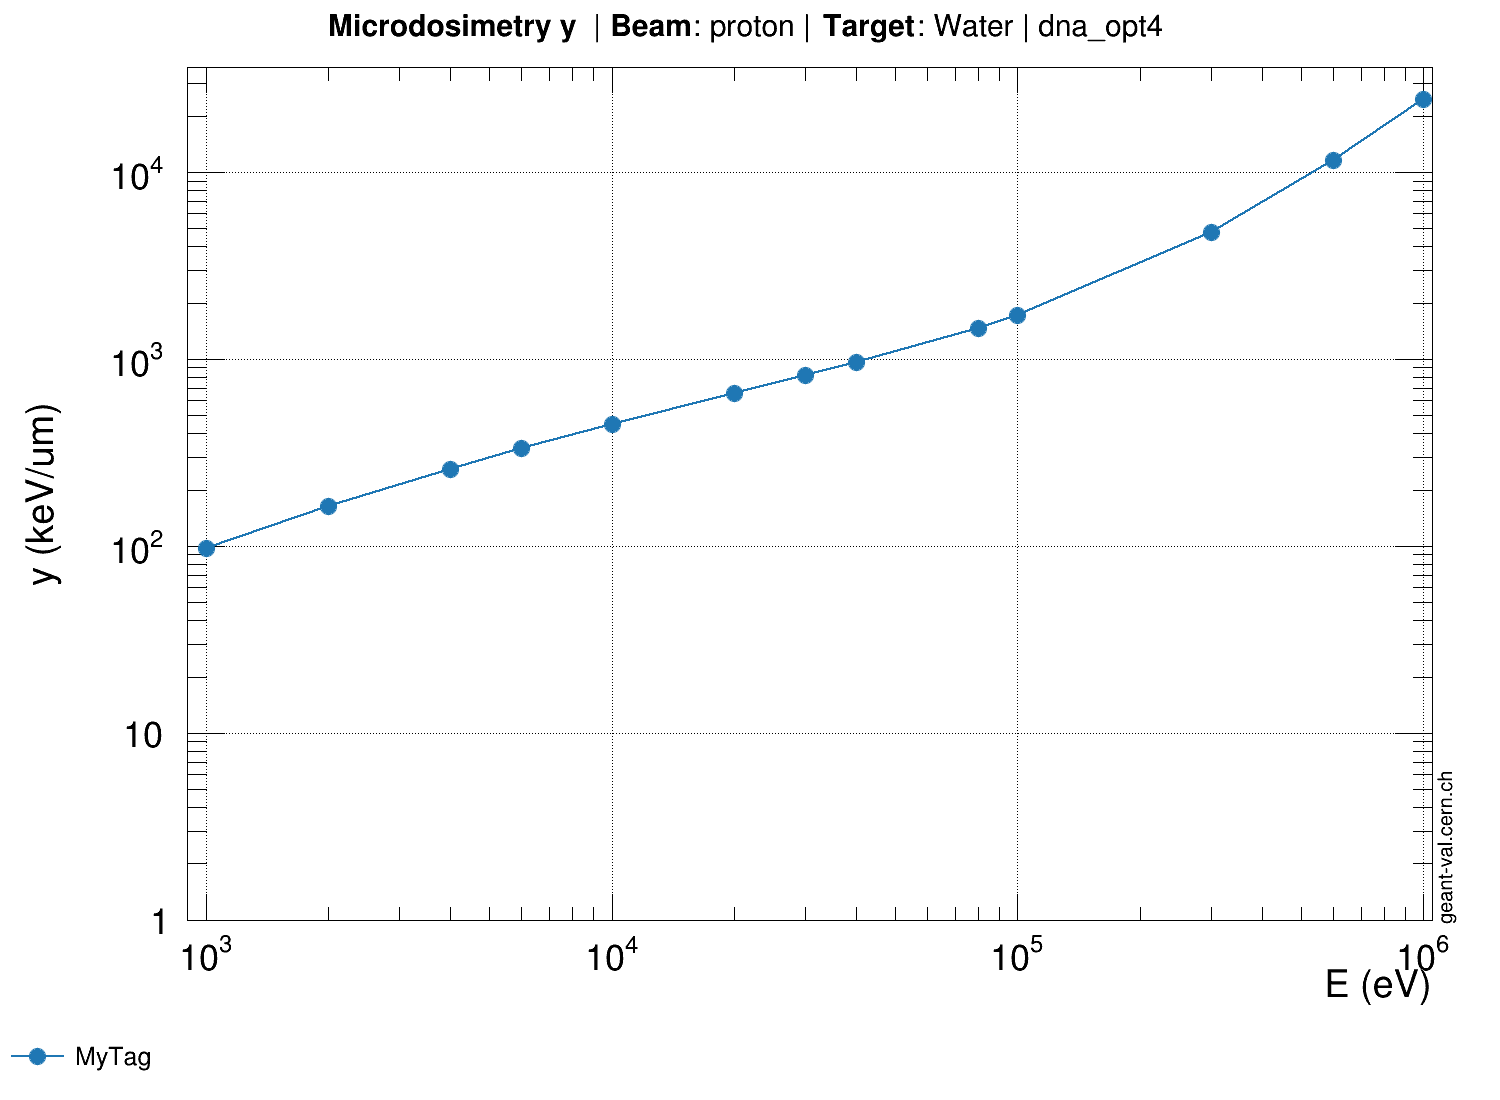
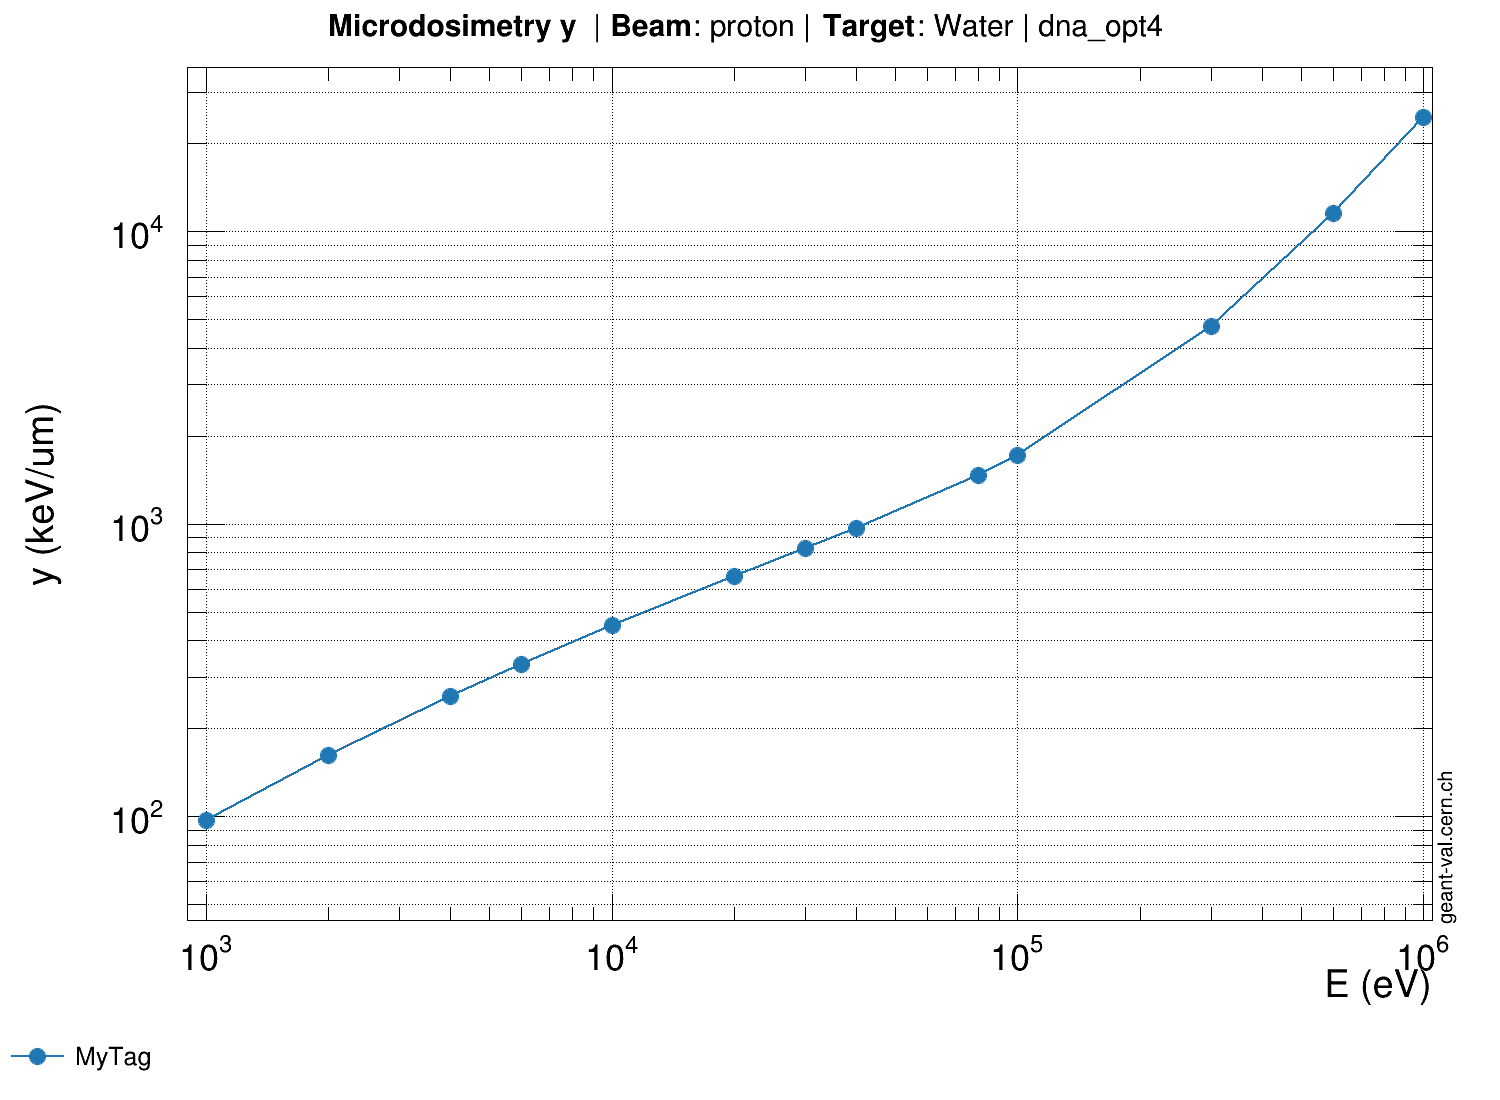
range : lun. mars 20 17:59:31 CET 2023

diff --git a/assets/OUTPUTJSON/geant4/MyTag/x86_64/range/proton.conf.c b/assets/OUTPUTJSON/geant4/MyTag/x86_64/range/proton.conf.c
@@ -66,3 +66,71 @@ double gvp_id-1_yerrors[13] = {
   0,
   0
 };
+// Tool:               GEANT4
+// Version:            MyTag
+// Model:              dna_opt4
+// Observable:         microdosimetry y
+// Target:             Water
+// Beam Particle:      proton
+// Secondary Particle: None
+
+double gvp_id-1_x[13] = {
+  1000,
+  2000,
+  4000,
+  6000,
+  10000,
+  20000,
+  30000,
+  40000,
+  80000,
+  100000,
+  300000,
+  600000,
+  1e+06
+};
+double gvp_id-1_y[13] = {
+  97.5713,
+  162.432,
+  258.069,
+  332.877,
+  451.097,
+  661.094,
+  823.99,
+  965.786,
+  1468.51,
+  1715.95,
+  4748.44,
+  11560.4,
+  24690.1
+};
+double gvp_id-1_xerrors[13] = {
+  0,
+  0,
+  0,
+  0,
+  0,
+  0,
+  0,
+  0,
+  0,
+  0,
+  0,
+  0,
+  0
+};
+double gvp_id-1_yerrors[13] = {
+  0,
+  0,
+  0,
+  0,
+  0,
+  0,
+  0,
+  0,
+  0,
+  0,
+  0,
+  0,
+  0
+};
